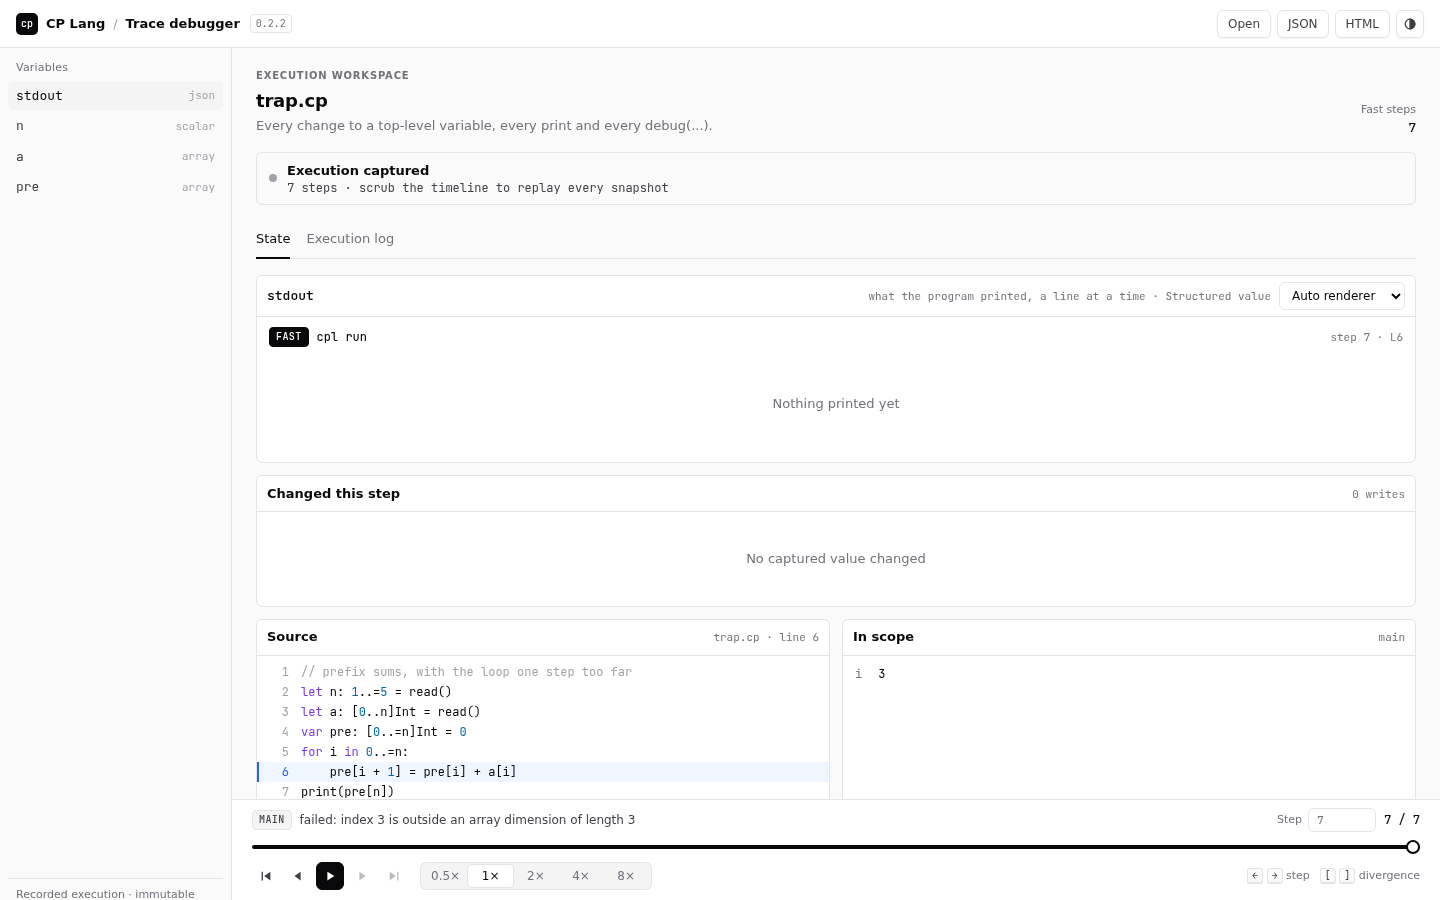
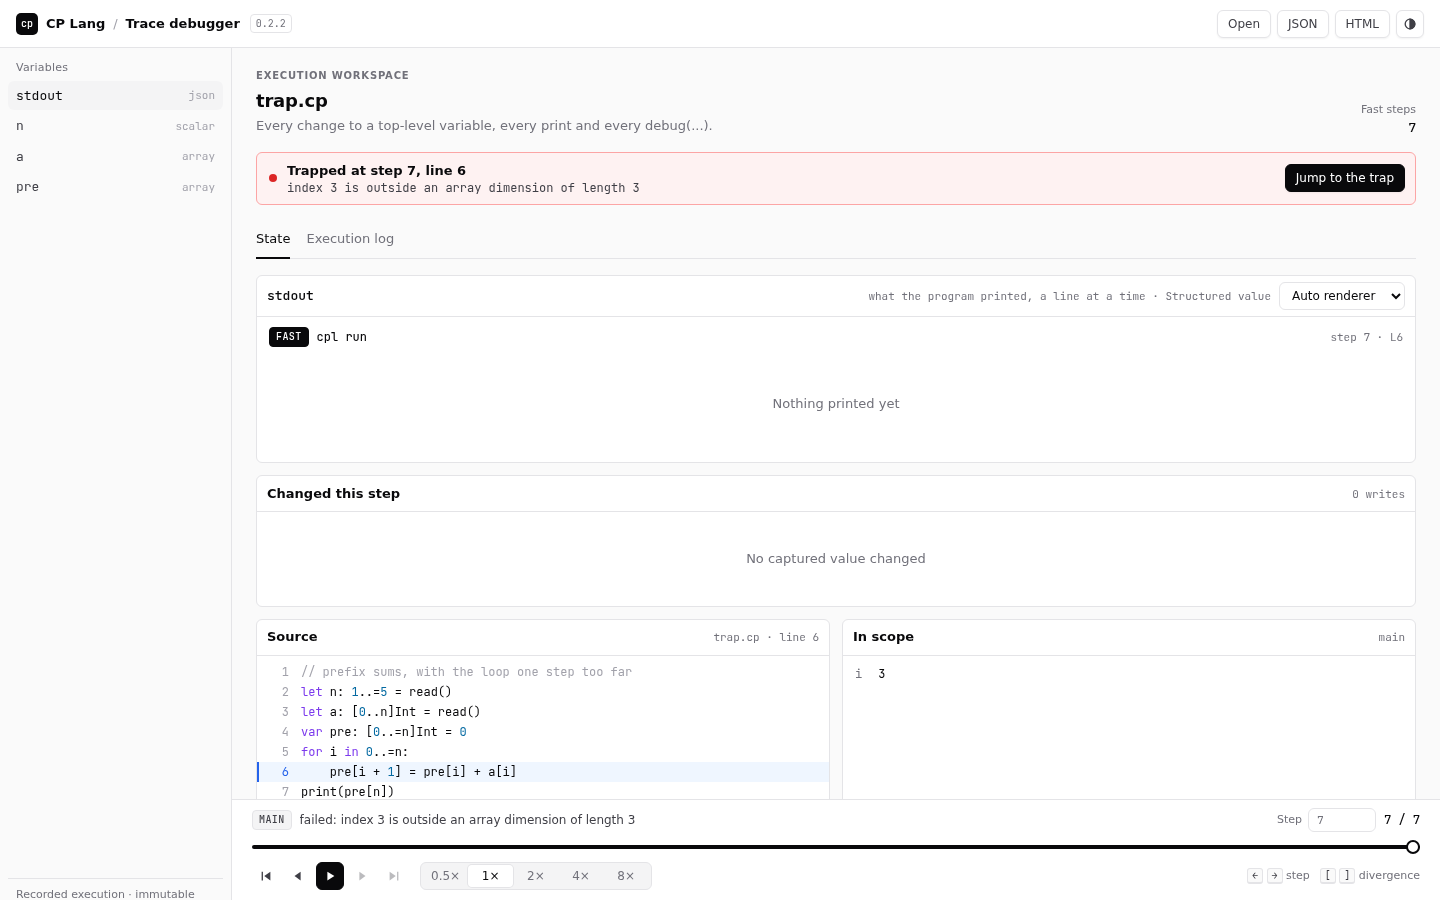
tools: say where a trapped run trapped in the trace viewer
Domain: debugger

Changed region(s): [[0.1875, 0.1867, 0.4688, 0.2178], [0.875, 0.1556, 1.0, 0.2178]]

diff --git a/tools/trace/index.html b/tools/trace/index.html
@@ -89,8 +89,8 @@ main { min-width: 0; padding: 20px 24px 148px; display: flex; flex-direction: co
 /* Status */
 .status { display: flex; align-items: center; gap: 10px; padding: 8px 10px 8px 12px; border: 1px solid var(--border); border-radius: var(--radius); background: var(--subtle); }
 .status-icon { width: 8px; height: 8px; border-radius: 50%; background: var(--ink-4); flex: none; }
-.status[data-state="diverge"] { border-color: var(--bad-line); background: var(--bad-bg); }
-.status[data-state="diverge"] .status-icon { background: var(--bad); }
+.status[data-state="diverge"], .status[data-state="trapped"] { border-color: var(--bad-line); background: var(--bad-bg); }
+.status[data-state="diverge"] .status-icon, .status[data-state="trapped"] .status-icon { background: var(--bad); }
 .status[data-state="agree"] .status-icon { background: var(--ok); }
 .status-text { flex: 1; min-width: 0; }
 .status-title { font-weight: 600; }
@@ -610,6 +610,9 @@ const TraceCore = (() => {
   }
   function summary(trace, analysis) {
     const first = analysis.divergences[0];
+    const steps = trace.runs.fast.steps, last = steps[steps.length - 1];
+    if (!trace.runs.slow && last && last.label.startsWith("failed: "))
+      return {state:"trapped", title:`Trapped at step ${steps.length}, line ${last.line}`, detail:last.label.slice("failed: ".length), trap:steps.length - 1};
     if (!trace.runs.slow) return {state:"single", title:"Execution captured", detail:`${trace.runs.fast.steps.length} steps · scrub the timeline to replay every snapshot`};
     if (!analysis.pairs.length) return {state:"incomparable", title:"No shared checkpoints", detail:"The runs cannot be compared: add matching checkpoint names to both runs"};
     if (!first) return {state:"agree", title:"Fast and spec agree", detail:`All compared values match at ${analysis.pairs.length} shared checkpoints`};
@@ -888,6 +891,7 @@ if (typeof module !== "undefined") module.exports = TraceCore;
         el("button", {class:"btn icon", type:"button", "aria-label":"Next divergence", title:`Next divergence (]) · ${total} divergent checkpoint${total === 1 ? "" : "s"}`, onclick:() => divergence(1)}, chevron("m6 3 5 5-5 5")),
         el("button", {class:"btn primary", type:"button", onclick:jumpToFirst, text:"Jump to first divergence"}));
     }
+    if (s.trap !== undefined) actions.push(el("button", {class:"btn primary", type:"button", onclick:() => { setTab("state"); player.go(s.trap); }, text:"Jump to the trap"}));
     box.replaceChildren(el("span", {class:"status-icon", "aria-hidden":"true"}),
       el("div", {class:"status-text"}, el("div", {class:"status-title", text:s.title}), el("div", {class:"status-detail", text:s.detail})),
       el("div", {class:"status-actions"}, actions));

diff --git a/crates/cpl-cli/tests/trace_browser.rs b/crates/cpl-cli/tests/trace_browser.rs
@@ -1,7 +1,8 @@
 //! The trace viewer rendered by a real browser: each debugging demo's
 //! `cpl run --trace` page, loaded in headless Chrome, shows its capture,
-//! its top-level variables and no script error. Skipped, with a note, when
-//! no Chrome is found (`CPL_CHROME` names one).
+//! its top-level variables and no script error; a stress trace opens on its
+//! first divergence, `#step=N` opens on step N and a trapped run says where.
+//! Skipped, with a note, when no Chrome is found (`CPL_CHROME` names one).
 
 use std::path::{Path, PathBuf};
 use std::process::Command;
@@ -12,13 +13,17 @@ fn chrome() -> Option<PathBuf> {
     }
     let names = ["google-chrome", "chromium", "chromium-browser", "chrome"];
     let path = std::env::var_os("PATH")?;
-    std::env::split_paths(&path)
+    let found = std::env::split_paths(&path)
         .flat_map(|dir| names.iter().map(move |name| dir.join(name)))
-        .find(|candidate| candidate.is_file())
+        .find(|candidate| candidate.is_file());
+    if found.is_none() {
+        eprintln!("skipped: no Chrome on PATH (set CPL_CHROME)");
+    }
+    found
 }
 
-/// The page's rendered DOM and the browser's log.
-fn render(chrome: &Path, page: &Path) -> (String, String) {
+/// The rendered DOM of `url` and the browser's log.
+fn render(chrome: &Path, url: &str) -> (String, String) {
     let out = Command::new(chrome)
         .args([
             "--headless=new",
@@ -30,42 +35,86 @@ fn render(chrome: &Path, page: &Path) -> (String, String) {
             "--virtual-time-budget=3000",
             "--dump-dom",
         ])
-        .arg(format!("file://{}", page.display()))
+        .arg(url)
         .output()
         .expect("chrome runs");
     let text = |b: &[u8]| String::from_utf8_lossy(b).into_owned();
-    (text(&out.stdout), text(&out.stderr))
+    let log = text(&out.stderr);
+    let errors: Vec<&str> = log.lines().filter(|l| l.contains("Uncaught")).collect();
+    assert!(
+        errors.is_empty(),
+        "{url}: script errors:\n{}",
+        errors.join("\n")
+    );
+    (text(&out.stdout), log)
 }
 
-fn traced(dir: &Path, demo: &str, input: &str) -> (PathBuf, usize) {
+fn url(page: &Path, hash: &str) -> String {
+    format!("file://{}{hash}", page.display())
+}
+
+fn scratch(name: &str) -> PathBuf {
+    let dir = PathBuf::from(env!("CARGO_TARGET_TMPDIR"))
+        .join(format!("trace_browser_{name}_{}", std::process::id()));
+    std::fs::create_dir_all(&dir).unwrap();
+    dir
+}
+
+fn copy_demo(dir: &Path, demo: &str) {
     let source = Path::new(env!("CARGO_MANIFEST_DIR")).join("../../examples/debugging");
     std::fs::copy(
         source.join(format!("{demo}.cp")),
         dir.join(format!("{demo}.cp")),
     )
     .unwrap();
-    std::fs::write(dir.join("case.in"), input).unwrap();
+}
+
+/// `cpl args` in `dir`: its standard error.
+fn cpl(dir: &Path, args: &[&str]) -> String {
     let out = Command::new(env!("CARGO_BIN_EXE_cpl"))
-        .args(["run", &format!("{demo}.cp"), "case.in", "--trace"])
+        .args(args)
         .current_dir(dir)
         .output()
         .unwrap();
-    let err = String::from_utf8_lossy(&out.stderr);
-    assert!(out.status.success(), "{err}");
+    String::from_utf8_lossy(&out.stderr).into_owned()
+}
+
+/// `cpl run --trace` of `file` on `input`: the page and its step count.
+fn traced(dir: &Path, file: &str, input: &str) -> (PathBuf, usize) {
+    std::fs::write(dir.join("case.in"), input).unwrap();
+    let err = cpl(dir, &["run", &format!("{file}.cp"), "case.in", "--trace"]);
     let steps = err
         .split_once(".trace.html (")
         .and_then(|(_, rest)| rest.split_once(" steps)"))
         .and_then(|(n, _)| n.parse().ok())
         .unwrap_or_else(|| panic!("no step count in {err}"));
-    (dir.join(format!("{demo}.trace.html")), steps)
+    (dir.join(format!("{file}.trace.html")), steps)
+}
+
+/// The text from the element `id` on, tags dropped, spaces collapsed.
+fn text_at(dom: &str, id: &str) -> String {
+    let at = dom
+        .split_once(&format!("id=\"{id}\""))
+        .map_or("", |(_, rest)| rest);
+    let mut text = String::new();
+    let mut in_tag = true;
+    for c in at.chars().take(1200) {
+        match c {
+            '<' => in_tag = true,
+            '>' => {
+                in_tag = false;
+                text.push(' ');
+            }
+            _ if !in_tag => text.push(c),
+            _ => {}
+        }
+    }
+    text.split_whitespace().collect::<Vec<_>>().join(" ")
 }
 
 #[test]
 fn every_debugging_demo_renders_in_a_browser() {
-    let Some(chrome) = chrome() else {
-        eprintln!("skipped: no Chrome on PATH (set CPL_CHROME)");
-        return;
-    };
+    let Some(chrome) = chrome() else { return };
     let demos: [(&str, &str, &[&str]); 3] = [
         (
             "knapsack",
@@ -80,25 +129,17 @@ fn every_debugging_demo_renders_in_a_browser() {
         ("shows", "2\n1\n0 1\n3\n0 2\n0 1\n1 1\n", &["n", "shows"]),
     ];
     for (demo, input, globals) in demos {
-        let dir = PathBuf::from(env!("CARGO_TARGET_TMPDIR"))
-            .join(format!("trace_browser_{demo}_{}", std::process::id()));
-        std::fs::create_dir_all(&dir).unwrap();
+        let dir = scratch(demo);
+        copy_demo(&dir, demo);
         let (page, steps) = traced(&dir, demo, input);
-        let (dom, log) = render(&chrome, &page);
-        let errors: Vec<&str> = log.lines().filter(|l| l.contains("Uncaught")).collect();
-        assert!(
-            errors.is_empty(),
-            "{demo}: script errors:\n{}",
-            errors.join("\n")
-        );
+        let (dom, _) = render(&chrome, &url(&page, ""));
         assert!(
             dom.contains(&format!("<h1 id=\"title\">{demo}.cp</h1>")),
             "{demo}: no title"
         );
-        let status = dom.split_once("id=\"status\"").map_or("", |(_, rest)| rest);
-        let status: String = status.chars().take(400).collect();
+        let status = text_at(&dom, "status");
         assert!(
-            status.contains("Execution captured") && status.contains(&format!("{steps} steps")),
+            status.starts_with(&format!("Execution captured {steps} steps")),
             "{demo}: the status does not show the {steps}-step capture: {status}"
         );
         for name in ["stdout"].iter().chain(globals) {
@@ -108,4 +149,61 @@ fn every_debugging_demo_renders_in_a_browser() {
             );
         }
     }
+}
+
+#[test]
+fn a_stress_trace_opens_on_its_first_divergence_and_a_link_on_its_step() {
+    let Some(chrome) = chrome() else { return };
+    let dir = scratch("stress");
+    copy_demo(&dir, "knapsack");
+    let out = Command::new(env!("CARGO_BIN_EXE_cpl"))
+        .args(["stress", "knapsack.cp", "--seed", "1", "--trace"])
+        .current_dir(&dir)
+        .output()
+        .unwrap();
+    let report =
+        String::from_utf8_lossy(&out.stdout).into_owned() + &String::from_utf8_lossy(&out.stderr);
+    let page = report
+        .lines()
+        .find_map(|l| l.trim().strip_prefix("trace "))
+        .map(|p| dir.join(p))
+        .unwrap_or_else(|| panic!("no trace in {report}"));
+    let (dom, _) = render(&chrome, &url(&page, ""));
+    let status = text_at(&dom, "status");
+    assert!(
+        status.starts_with("First divergence at step ")
+            && status.contains("stdout[0]: fast 2 ≠ spec 1"),
+        "{status}"
+    );
+    let label = text_at(&dom, "tl-label");
+    let total = label
+        .split(" / ")
+        .nth(1)
+        .and_then(|t| t.split(' ').next())
+        .unwrap_or_else(|| panic!("no step total in {label}"))
+        .to_string();
+    let (dom, _) = render(&chrome, &url(&page, "#step=3"));
+    let label = text_at(&dom, "tl-label");
+    assert!(label.contains(&format!("Step 3 / {total}")), "{label}");
+}
+
+#[test]
+fn a_trapped_run_says_where_it_trapped() {
+    let Some(chrome) = chrome() else { return };
+    let dir = scratch("trap");
+    let source =
+        "let n: 1..=5 = read()\nvar a: [0..n]Int = 0\nfor i in 0..=n:\n    a[i] = i\nprint(a)\n";
+    std::fs::write(dir.join("trap.cp"), source).unwrap();
+    let (page, steps) = traced(&dir, "trap", "3\n");
+    let (dom, _) = render(&chrome, &url(&page, ""));
+    let status = text_at(&dom, "status");
+    assert!(
+        status.starts_with(&format!(
+            "Trapped at step {steps}, line 4 index 3 is outside an array dimension of length 3"
+        )) && status.contains("Jump to the trap"),
+        "{status}"
+    );
+    let (dom, _) = render(&chrome, &url(&page, &format!("#step={steps}")));
+    let locals = text_at(&dom, "locals");
+    assert!(locals.starts_with("i 3 "), "{locals}");
 }

diff --git a/plan/domains/debugger/worklog.md b/plan/domains/debugger/worklog.md
@@ -3,6 +3,7 @@
 Newest first: what landed (commit), evidence, next, blocked, requests from other lanes.
 
 ## 2026-11-22
+- Viewer: a single run whose last step failed opens with a red "Trapped at step N, line L" status, the trap message and a "Jump to the trap" button (was "Execution captured"); unit test in `tools/trace/state.test.cjs`. `crates/cpl-cli/tests/trace_browser.rs` grows to 3 tests in 1.64 s: the stress trace of knapsack opens on "First divergence at step" with `stdout[0]: fast 2 ≠ spec 1`, `#step=3` opens on step 3, and a trapped run shows the status and `i 3` in scope at the trap; with the viewer change reverted the trap test fails. `trap-trace.png` recaptured (headless Chrome, 1440x900, at the trap step).
 - Browser test: `crates/cpl-cli/tests/trace_browser.rs` traces knapsack, shortest_path and shows, loads each page in headless Chrome (`--dump-dom`) and checks the title, the "Execution captured, N steps" status against cpl's step count, every top-level variable in the list and no `Uncaught` in the browser log. Passes in 1.18 s; a planted `throw` in the viewer's init fails it. Skipped with a note when no Chrome is on PATH (`CPL_CHROME` names one), which is CI today; still open: divergence, step back and the trap step need a driven browser, not a DOM dump.
 - The viewer's node tests run in `scripts/check.sh` (--fast and --land), as the step "trace viewer tests"; infra's request sat unanswered, so made directly with a note in their worklog.
 - Checked the io-flush claim: a binary-search guesser that queries with plain `print("?", mid)` then `read()` (no `ask`, no `Wire`) against the `@interactor` of `crates/cpl-cli/tests/debugger/guess_multitest.cp`: `cpl stress guess.cp --seed 1 --cases 50 --time-limit 2000` says 50 cases agree in 0.37 s, so a read flushes first here too and the missing-flush bug cannot be written.

diff --git a/plan/domains/debugger/README.md b/plan/domains/debugger/README.md
@@ -91,4 +91,5 @@ Align on the loop above and on what generators must describe; answer the three q
 
 | ![knapsack](../../../examples/debugging/screenshots/knapsack-trace.png) | ![shows](../../../examples/debugging/screenshots/shows-trace.png) |
 |---|---|
-| ![trap](../../../examples/debugging/screenshots/trap-trace.png) | `shortest_path.cp`: not capturable (E0301 on v0.3); `vscode-step-back.png` not recaptured |
+| ![trap](../../../examples/debugging/screenshots/trap-trace.png) | ![shortest_path](../../../examples/debugging/screenshots/shortest_path-trace.png) |
+| ![vscode step back](../../../examples/debugging/screenshots/vscode-step-back.png) | |
